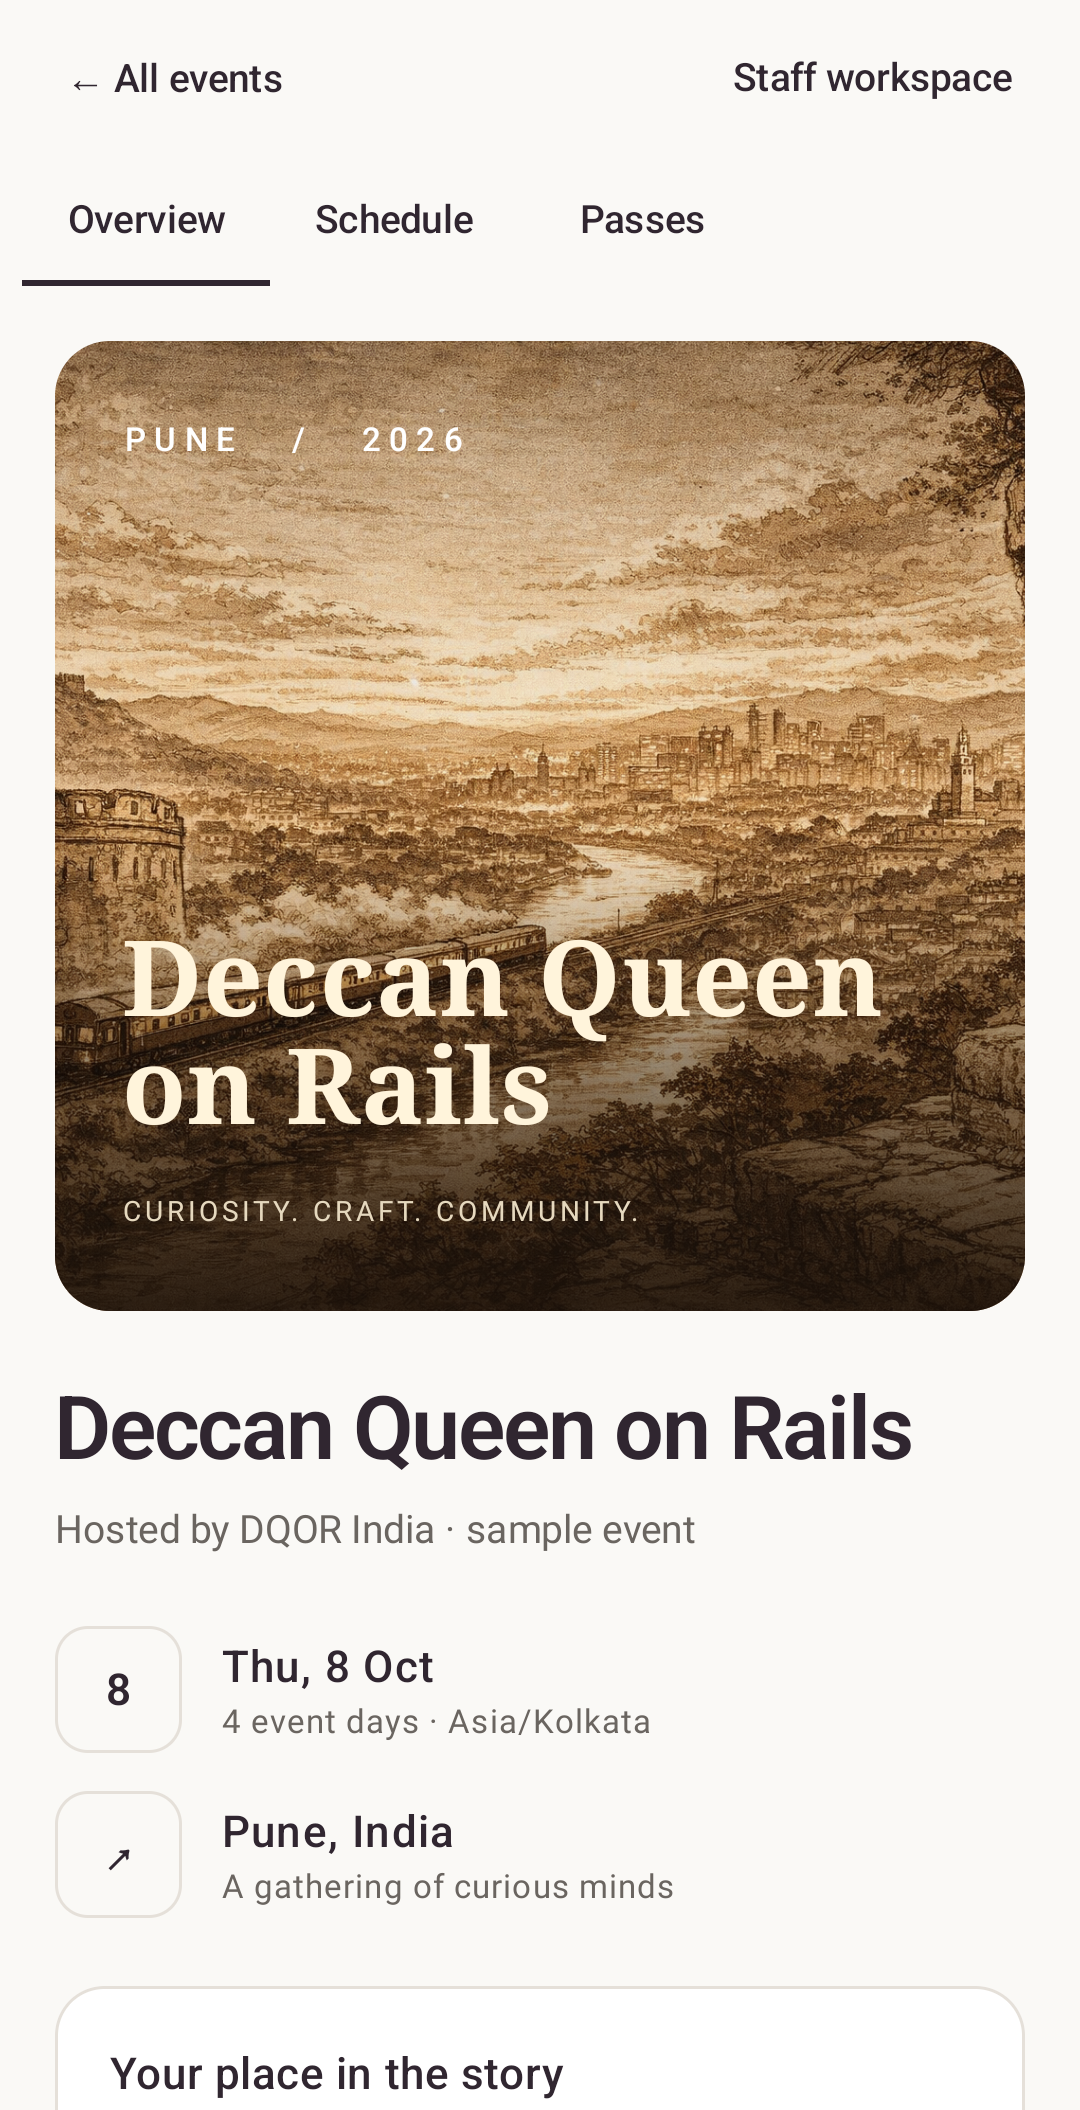
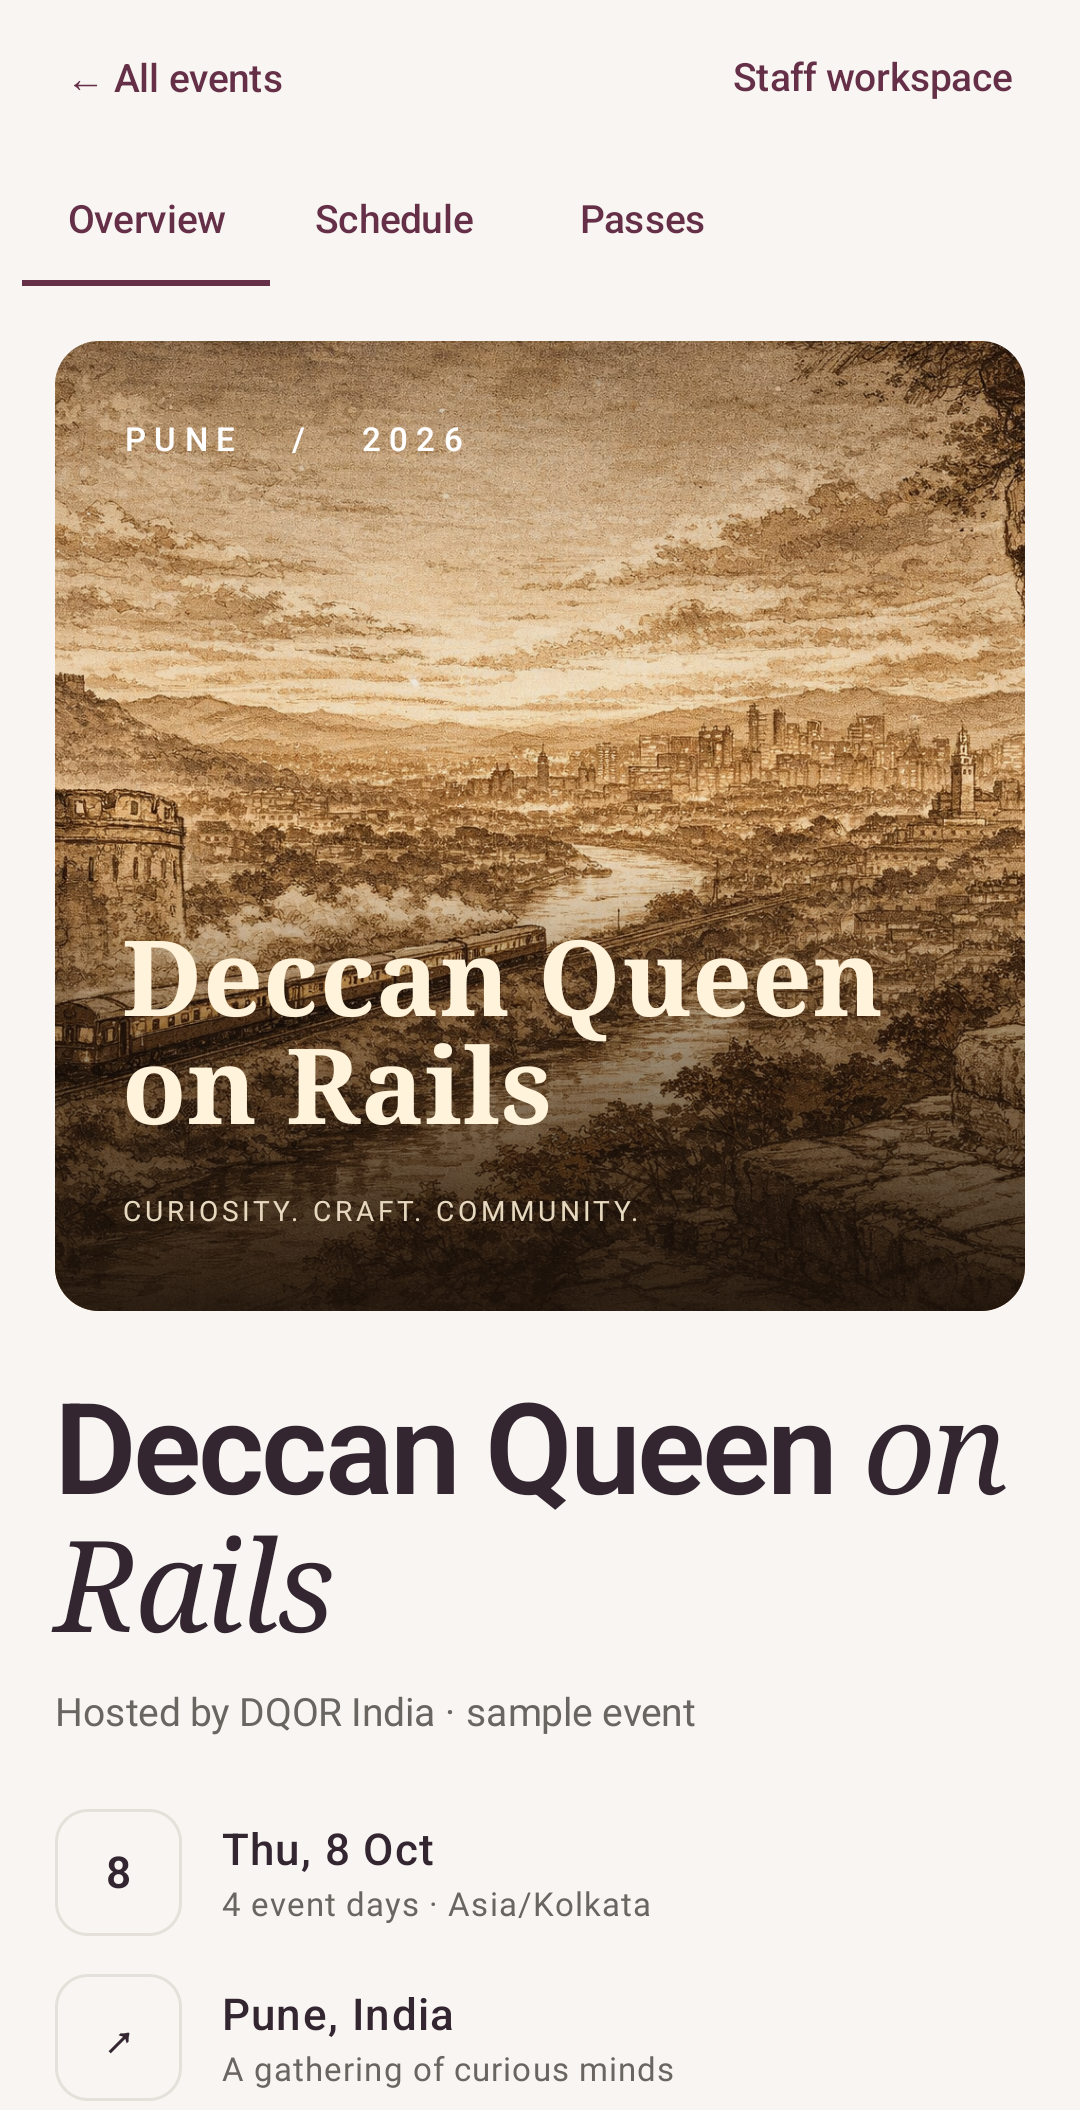
Align Android attendee styling with rendered design handoff

diff --git a/android/app/src/main/java/in/dqor/staff/experience/EventHubApp.kt b/android/app/src/main/java/in/dqor/staff/experience/EventHubApp.kt
@@ -25,6 +25,11 @@ import androidx.compose.ui.platform.LocalDensity
 import androidx.compose.ui.platform.testTag
 import androidx.compose.ui.semantics.*
 import androidx.compose.ui.text.font.FontWeight
+import androidx.compose.ui.text.font.FontFamily
+import androidx.compose.ui.text.font.FontStyle
+import androidx.compose.ui.text.SpanStyle
+import androidx.compose.ui.text.buildAnnotatedString
+import androidx.compose.ui.text.withStyle
 import androidx.compose.ui.unit.dp
 import androidx.compose.ui.unit.sp
 import com.google.zxing.BarcodeFormat
@@ -35,7 +40,7 @@ import java.time.format.DateTimeFormatter
 
 enum class EventSection(val label: String) { OVERVIEW("Overview"), SCHEDULE("Schedule"), PASSES("Passes") }
 private fun dayLabel(day: String)=LocalDate.parse(day).format(DateTimeFormatter.ofPattern("EEE, d MMM",java.util.Locale.ENGLISH))
-private val PosterShape=RoundedCornerShape(20.dp)
+private val PosterShape=RoundedCornerShape(16.dp)
 
 @Composable
 fun EventHubApp(events: List<Event>, content: EventExperience, onStaff: () -> Unit) {
@@ -89,7 +94,7 @@ fun EventHubApp(events: List<Event>, content: EventExperience, onStaff: () -> Un
                     EventSection.OVERVIEW -> LazyColumn(Modifier.fillMaxSize().testTag("event-overview"),contentPadding=PaddingValues(20.dp),verticalArrangement=Arrangement.spacedBy(24.dp)) {
                         item {EventArtwork(event,Modifier.fillMaxWidth().aspectRatio(1f).clip(PosterShape))}
                         item {
-                            Text(event.name,fontSize=32.sp,lineHeight=36.sp,fontWeight=FontWeight.SemiBold,letterSpacing=(-.8).sp)
+                            EventDisplayTitle(event.name)
                             Spacer(Modifier.height(8.dp)); Text("Hosted by DQOR India · sample event",style=MaterialTheme.typography.bodyMedium,color=MaterialTheme.colorScheme.onSurfaceVariant)
                         }
                         item {
@@ -191,7 +196,7 @@ fun EventHubApp(events: List<Event>, content: EventExperience, onStaff: () -> Un
         item {Surface(shape=RoundedCornerShape(24.dp),color=Color.White,border=androidx.compose.foundation.BorderStroke(1.dp,MaterialTheme.colorScheme.outlineVariant)) {Column {
             EventArtwork(event,Modifier.fillMaxWidth().height(128.dp),compact=true)
             Column(Modifier.padding(24.dp),verticalArrangement=Arrangement.spacedBy(12.dp)) {
-                Text(event.name,style=MaterialTheme.typography.titleLarge,fontWeight=FontWeight.SemiBold)
+                EventDisplayTitle(event.name,compact=true)
                 Text("${dayLabel(event.dates.first())} · ${event.location}",style=MaterialTheme.typography.bodySmall,color=MaterialTheme.colorScheme.onSurfaceVariant)
                 Text(pass.attendee,fontSize=28.sp,lineHeight=32.sp,fontWeight=FontWeight.SemiBold); Text(pass.ticketType,style=MaterialTheme.typography.bodyMedium)
                 DemoNote("SAMPLE PASS · NOT VALID FOR ENTRY")
@@ -219,4 +224,14 @@ fun EventHubApp(events: List<Event>, content: EventExperience, onStaff: () -> Un
         Text(label,style=MaterialTheme.typography.labelMedium,color=MaterialTheme.colorScheme.onSurfaceVariant)
         Text(value,style=MaterialTheme.typography.bodyLarge,fontWeight=FontWeight.Medium)
     }
+}
+
+@Composable private fun EventDisplayTitle(name: String, compact: Boolean=false) {
+    val words=name.split(" ")
+    val split=if(words.size>2) words.dropLast(2).joinToString(" ")+" " else ""
+    val title=buildAnnotatedString {
+        append(split)
+        withStyle(SpanStyle(fontFamily=FontFamily.Serif,fontStyle=FontStyle.Italic,fontWeight=FontWeight.Medium)) {append(name.removePrefix(split))}
+    }
+    Text(title,fontSize=if(compact) 30.sp else 46.sp,lineHeight=if(compact) 34.sp else 50.sp,fontWeight=FontWeight.SemiBold,letterSpacing=(-1).sp)
 }

diff --git a/android/app/src/main/java/in/dqor/staff/experience/AttendeeTheme.kt b/android/app/src/main/java/in/dqor/staff/experience/AttendeeTheme.kt
@@ -8,12 +8,12 @@ import androidx.compose.ui.unit.dp
 
 // Attendee surfaces are intentionally independent of the neutral staff workspace.
 val AttendeeColors=lightColorScheme(
-    primary=Color(0xFF302630),onPrimary=Color.White,
-    primaryContainer=Color(0xFFEDE8E3),onPrimaryContainer=Color(0xFF302630),
+    primary=Color(0xFF642F47),onPrimary=Color.White,
+    primaryContainer=Color(0xFFEDE8E3),onPrimaryContainer=Color(0xFF332631),
     secondary=Color(0xFF766555),onSecondary=Color.White,
-    secondaryContainer=Color(0xFF302630),onSecondaryContainer=Color.White,
-    background=Color(0xFFFAF9F6),onBackground=Color(0xFF302630),
-    surface=Color(0xFFFAF9F6),onSurface=Color(0xFF302630),
+    secondaryContainer=Color(0xFF332631),onSecondaryContainer=Color.White,
+    background=Color(0xFFF8F5F2),onBackground=Color(0xFF332631),
+    surface=Color(0xFFF8F5F2),onSurface=Color(0xFF332631),
     surfaceVariant=Color(0xFFF0EEEA),onSurfaceVariant=Color(0xFF6A6560),
     surfaceContainer=Color.White,surfaceContainerLow=Color.White,
     surfaceContainerHigh=Color(0xFFF0EEEA),surfaceContainerHighest=Color.White,

diff --git a/android/EVENT_EXPERIENCE.md b/android/EVENT_EXPERIENCE.md
@@ -44,9 +44,9 @@ a duplicate retry is reported as already admitted, never a new success.
 ## Visual system
 
 Operations use warm canvas `#F6F5EF`, ink `#243024`, forest `#334B28`, 12dp cards,
-16sp body and 48–56dp primary controls. Attendee chrome is separate: warm off-white `#FAF9F6`, aubergine `#302630`,
+16sp body and 48–56dp primary controls. Attendee chrome is separate: warm off-white `#F8F5F2`, aubergine `#332631` and plum accent `#642F47`,
 white cards, restrained dividers and artwork-led event identity. The 56dp header,
-square 20dp-radius art, 32/36sp title, compact metadata and one ticket action follow
+square 16dp-radius art, 46/50sp title with native serif italic accents, compact metadata and one ticket action follow
 the design owner's fresh public Luma reference review. No Luma assets or branding
 are used. DQOR art copies the repository's public `public/dqor/hero-bg.jpg` unchanged;
 the second event uses an original Compose geometric motif. Cropped art carries into
@@ -102,3 +102,11 @@ fixtures, not screenshots of a live event/account or a published app. Instrument
 screenshot helpers store only synthetic content inside the debug app's private
 files. Device tests and screenshot inspection run locally; hosted CI runs build,
 JVM tests and lint.
+
+
+The subsequent rendered attendee handoff (`docs/theme-studio/attendee/event-mobile.png`
+and `pass-mobile.png` in the design owner's checkout) was inspected before aligning
+the final palette and display hierarchy. Android retains its DQOR conference artwork
+rather than relabeling that conference as the separate fictional After Hours event.
+Pass codes remain clearly invalid synthetic fixtures because no approved attendee
+credential contract is connected; QR pixels stay on white with an untouched quiet zone.
